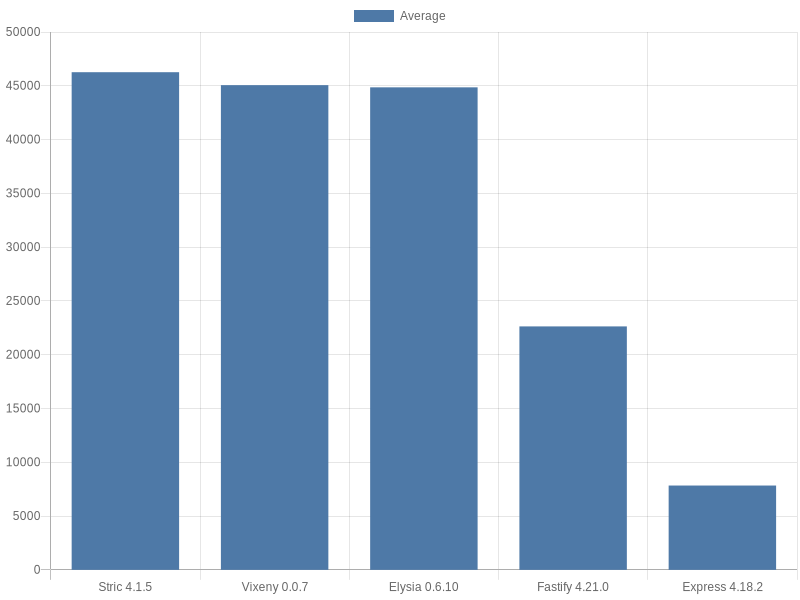
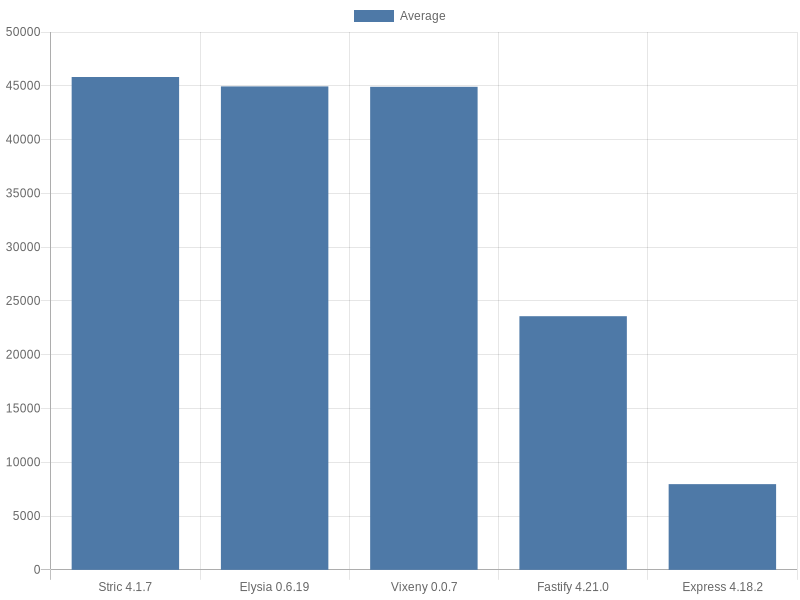
Update

diff --git a/results/index.md b/results/index.md
@@ -1,6 +1,6 @@
-Bun: 0.8.1
+Bun: 1.0.0
 
-Tested at: 19:01, September 2nd, 2023
+Tested at: 05:48, September 9th, 2023
 
 ## OS Details
 - Cores: 8
@@ -13,7 +13,7 @@ Tested at: 19:01, September 2nd, 2023
 Should return `Hi` as a response.
 ### GET `/api/hi`
 Should return `Welcome` as a response.
-### GET `/id/42?name=flv`
+### GET `/id/43?name=0t5`
 Should return the `id` parameter value and the query value, for example `1 a` when the request path is `/id/1?name=a`.
 ### GET `/a/b`
 Should return a response with `404` status code.
@@ -26,10 +26,10 @@ Return the request body with `Content-Type` set to `application/json`.
 - Results are measured in requests per second.
 
 ## Results
-| Name | Average | GET `/` | GET `/api/hi` | GET `/id/12?name=QTx` | GET `/a/b` | POST `/api/json` |
+| Name | Average | GET `/` | GET `/api/hi` | GET `/id/61?name=O1Y` | GET `/a/b` | POST `/api/json` |
 |  :---: | :---: | :---: | :---: | :---: | :---: | :---: |
-| [Stric 4.1.5](/results/main/Stric) | 46263.49 | 48877.99 | 48875.59 | 47408.84 | 47730.69 | 38424.35 |
-| [Vixeny 0.0.7](/results/main/Vixeny) | 45060.48 | 48226.25 | 45809.46 | 46377.57 | 46842.32 | 38046.80 |
-| [Elysia 0.6.10](/results/main/Elysia) | 44853.89 | 47927.20 | 46866.07 | 45017.10 | 46946.20 | 37512.88 |
-| [Fastify 4.21.0](/results/main/Fastify) | 22632.36 | 25030.18 | 24925.94 | 23993.22 | 21829.39 | 17383.08 |
-| [Express 4.18.2](/results/main/Express) | 7840.44 | 8944.50 | 8859.80 | 8259.80 | 7112.15 | 6025.97 |
+| [Stric 4.1.7](/results/main/Stric) | 45816.17 | 48502.32 | 47160.20 | 46817.86 | 47520.27 | 39080.20 |
+| [Elysia 0.6.19](/results/main/Elysia) | 44939.80 | 48071.32 | 47055.21 | 43989.98 | 47166.10 | 38416.40 |
+| [Vixeny 0.0.7](/results/main/Vixeny) | 44906.08 | 48091.01 | 46649.50 | 45449.04 | 46819.57 | 37521.28 |
+| [Fastify 4.21.0](/results/main/Fastify) | 23578.85 | 25971.88 | 25854.67 | 24831.27 | 22669.00 | 18567.42 |
+| [Express 4.18.2](/results/main/Express) | 7970.02 | 9073.43 | 8981.43 | 8382.89 | 7167.82 | 6244.55 |

diff --git a/README.md b/README.md
@@ -53,10 +53,10 @@ See [configuration file](/config.ts) and the [type declarations](/lib/types.ts).
 ### Table 
 
 
-| Name | Average | GET `/` | GET `/api/hi` | GET `/id/12?name=QTx` | GET `/a/b` | POST `/api/json` |
+| Name | Average | GET `/` | GET `/api/hi` | GET `/id/61?name=O1Y` | GET `/a/b` | POST `/api/json` |
 |  :---: | :---: | :---: | :---: | :---: | :---: | :---: |
-| [Stric 4.1.5](/results/main/Stric) | 46263.49 | 48877.99 | 48875.59 | 47408.84 | 47730.69 | 38424.35 |
-| [Vixeny 0.0.7](/results/main/Vixeny) | 45060.48 | 48226.25 | 45809.46 | 46377.57 | 46842.32 | 38046.80 |
-| [Elysia 0.6.10](/results/main/Elysia) | 44853.89 | 47927.20 | 46866.07 | 45017.10 | 46946.20 | 37512.88 |
-| [Fastify 4.21.0](/results/main/Fastify) | 22632.36 | 25030.18 | 24925.94 | 23993.22 | 21829.39 | 17383.08 |
-| [Express 4.18.2](/results/main/Express) | 7840.44 | 8944.50 | 8859.80 | 8259.80 | 7112.15 | 6025.97 |
+| [Stric 4.1.7](/results/main/Stric) | 45816.17 | 48502.32 | 47160.20 | 46817.86 | 47520.27 | 39080.20 |
+| [Elysia 0.6.19](/results/main/Elysia) | 44939.80 | 48071.32 | 47055.21 | 43989.98 | 47166.10 | 38416.40 |
+| [Vixeny 0.0.7](/results/main/Vixeny) | 44906.08 | 48091.01 | 46649.50 | 45449.04 | 46819.57 | 37521.28 |
+| [Fastify 4.21.0](/results/main/Fastify) | 23578.85 | 25971.88 | 25854.67 | 24831.27 | 22669.00 | 18567.42 |
+| [Express 4.18.2](/results/main/Express) | 7970.02 | 9073.43 | 8981.43 | 8382.89 | 7167.82 | 6244.55 |
